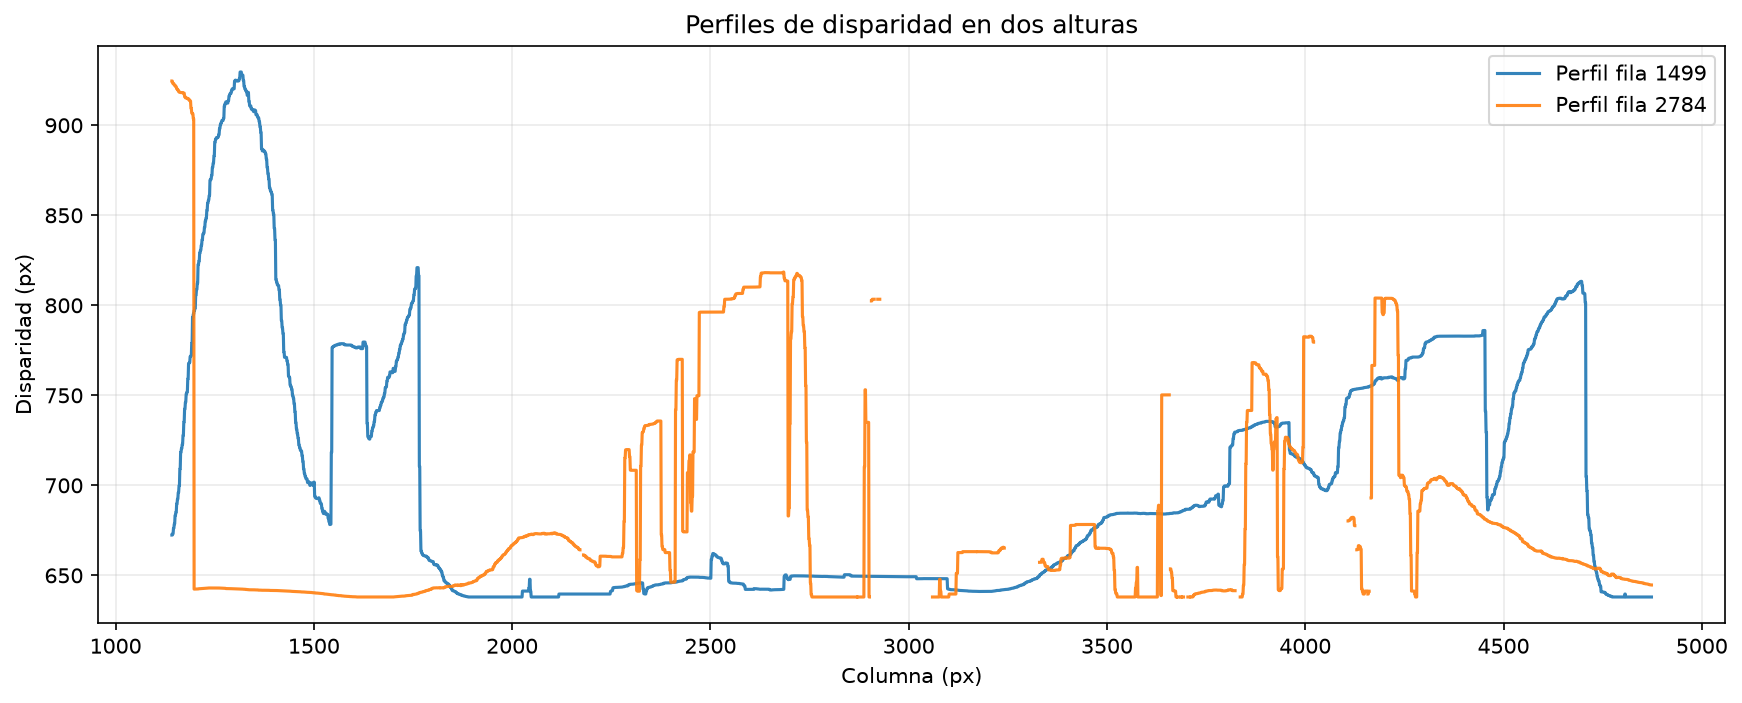
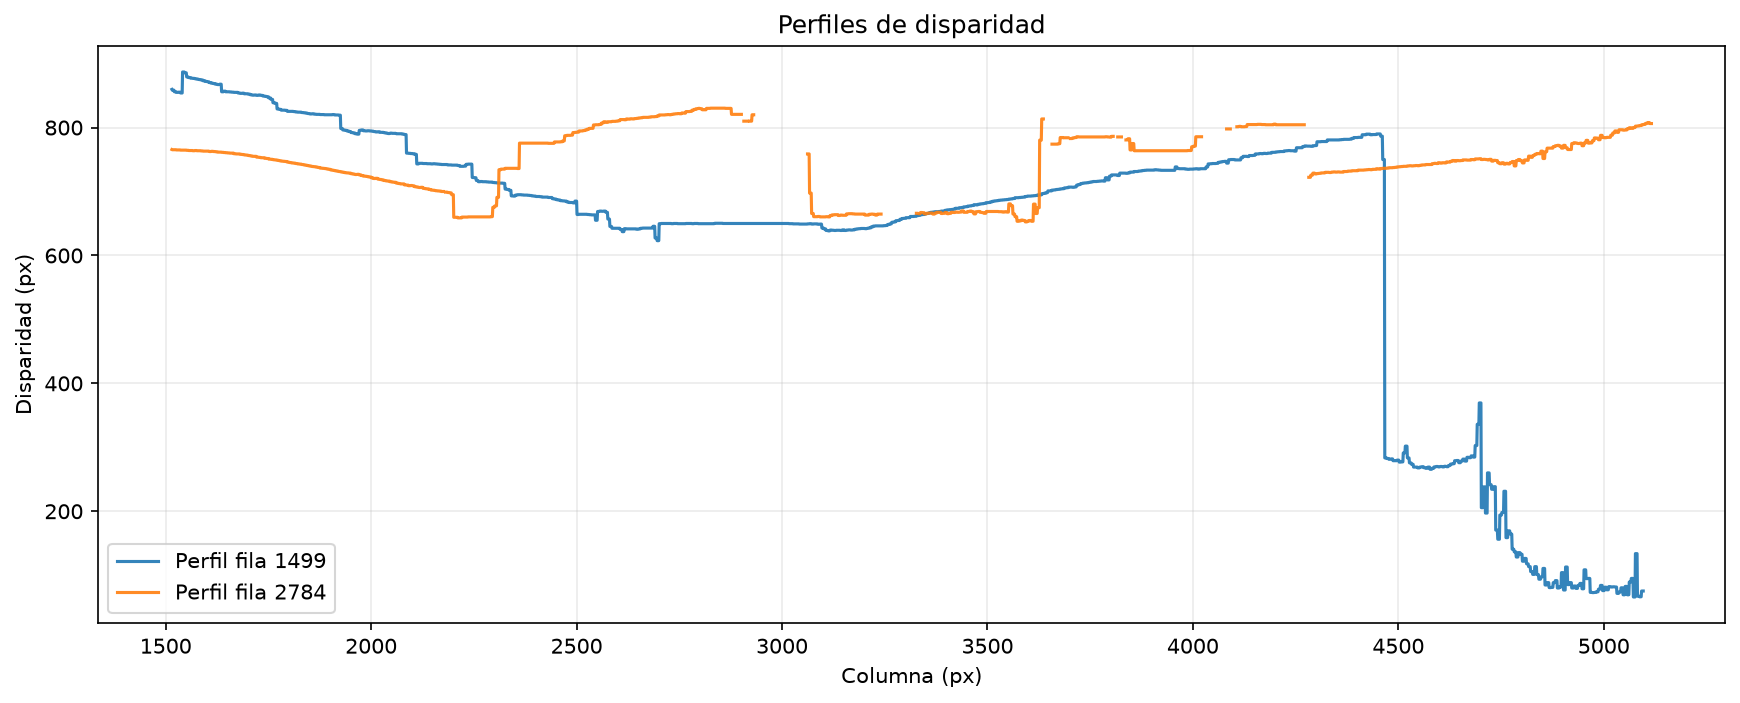
Actualización disparidad

diff --git a/main.py b/main.py
@@ -29,7 +29,7 @@ K = np.array([
 ])
 dist = np.array([0.2821249450, -2.1993670285, 0.0003160934, 0.0022638987, 5.0754442194])
 TAMANO_ARUCO_M = 0.062   # lado del ArUco en metros
-SCALE_FACTOR = 0.5
+SCALE_FACTOR = 0.2       # Forzamos la baja resolución para SGBM
 IMG_L = os.path.join("FotosOriginales", "1.png")
 IMG_R = os.path.join("FotosOriginales", "2.png")
 OUTDIR = "output"
@@ -56,16 +56,6 @@ def cargar_imagenes():
 # ETAPA 9 — Rectificación estéreo (cv2.stereoRectify)
 # ============================================================================
 def rectificar_estereo(img_l, img_r, K, R, t):
-    """
-    Rectificación calibrada usando cv2.stereoRectify.
-    
-    Concepto: stereoRectify calcula rotaciones R1, R2 que alinean ambos planos
-    imagen para que las líneas epipolares sean horizontales. Se derivan de la
-    geometría epipolar (R, t): cada cámara se rota para que el epipolo se
-    envíe al infinito horizontal, haciendo las epipolares paralelas al eje x.
-    
-    dist_coeffs = 0 porque las imágenes ya están corregidas de distorsión.
-    """
     print("\n" + "="*70)
     print("ETAPA 9 — Rectificación estéreo (cv2.stereoRectify)")
     print("="*70)
@@ -88,15 +78,9 @@ def rectificar_estereo(img_l, img_r, K, R, t):
     print(f"  P1r:\n{P1r}")
     print(f"  P2r:\n{P2r}")
     
-    # Explicación conceptual
-    print("\n  NOTA: Las homografías de rectificación se derivan de E (y por tanto de R,t).")
-    print("  stereoRectify rota cada cámara (R1, R2) para que los planos imagen sean")
-    print("  coplanares y las líneas epipolares perfectamente horizontales.")
-    
     return img_rect1, img_rect2, R1, R2, P1r, P2r, Q
 
 def calcular_error_vertical(img_rect2, pts_l, pts_r, K, R1, R2, P1r, P2r):
-    """Calcula error vertical medio y aplica corrección afín en Y para eliminar el residual."""
     dist_rect = np.zeros((1, 5), dtype=float)
     ptsL_rect = cv2.undistortPoints(pts_l.reshape(-1,1,2).astype(np.float64),
                                      K, dist_rect, R=R1, P=P1r).reshape(-1, 2)
@@ -105,12 +89,10 @@ def calcular_error_vertical(img_rect2, pts_l, pts_r, K, R1, R2, P1r, P2r):
     
     dy_before = np.mean(np.abs(ptsL_rect[:,1] - ptsR_rect[:,1]))
     
-    # Corrección Bilineal (solo en Y) para alinear suave y precisamente
-    # Evita la distorsión loca de los extremos que causa RBF
+    # Corrección Bilineal (solo en Y)
     X_r, Y_r = ptsR_rect[:, 0], ptsR_rect[:, 1]
     Y_l = ptsL_rect[:, 1]
     
-    # 1. Ajuste Inverso (Para remap: Destino -> Origen)
     A_inv = np.column_stack([X_r, Y_l, X_r*Y_l, np.ones_like(X_r)])
     p_inv, _, _, _ = np.linalg.lstsq(A_inv, Y_r, rcond=None)
     
@@ -120,7 +102,6 @@ def calcular_error_vertical(img_rect2, pts_l, pts_r, K, R1, R2, P1r, P2r):
     
     img_rect2_opt = cv2.remap(img_rect2, map_x, map2y_opt, cv2.INTER_LINEAR)
     
-    # 2. Ajuste Directo (Para calcular el nuevo Y de los puntos)
     A_fwd = np.column_stack([X_r, Y_r, X_r*Y_r, np.ones_like(X_r)])
     p_fwd, _, _, _ = np.linalg.lstsq(A_fwd, Y_l, rcond=None)
     
@@ -139,11 +120,12 @@ def calcular_error_vertical(img_rect2, pts_l, pts_r, K, R1, R2, P1r, P2r):
 def calcular_disparidad(imgL_rect, imgR_rect, P1r, P2r, ptsL_in, ptsR_in,
                          K, R1, R2, C1, C2, outdir):
     print("\n" + "="*70)
-    print("ETAPA 10 — Mapa de disparidad denso (StereoSGBM)")
+    print("ETAPA 10 — Mapa de disparidad denso (StereoSGBM + WLS limpio)")
     print("="*70)
 
-    SCALE_FACTOR = 0.5
-    assert SCALE_FACTOR in [0.5, 0.25, 0.125], "Usa potencias de 1/2"
+    # 1. Aplicamos el factor de escala
+    SCALE_FACTOR = 0.2
+    assert SCALE_FACTOR in [0.5, 0.25, 0.2, 0.125], "Usa factores lógicos"
 
     h_orig, w_orig = imgL_rect.shape[:2]
     new_w, new_h = int(w_orig * SCALE_FACTOR), int(h_orig * SCALE_FACTOR)
@@ -152,11 +134,8 @@ def calcular_disparidad(imgL_rect, imgR_rect, P1r, P2r, ptsL_in, ptsR_in,
     grayL = cv2.cvtColor(imgL_rect_small, cv2.COLOR_BGR2GRAY)
     grayR = cv2.cvtColor(imgR_rect_small, cv2.COLOR_BGR2GRAY)
     
-    # MÁSCARA ESTRICTA DE ZONA VÁLIDA (para evitar que WLS reviente en los bordes negros de alpha=1)
+    # Máscara para bordes negros de rectificación
     mask_valid = (grayL > 5) & (grayR > 5)
-
-    P1r_scaled = P1r.copy(); P1r_scaled[0, :] *= SCALE_FACTOR; P1r_scaled[1, :] *= SCALE_FACTOR
-    P2r_scaled = P2r.copy(); P2r_scaled[0, :] *= SCALE_FACTOR; P2r_scaled[1, :] *= SCALE_FACTOR
 
     dist_rect = np.zeros((1, 5), dtype=float)
 
@@ -165,178 +144,115 @@ def calcular_disparidad(imgL_rect, imgR_rect, P1r, P2r, ptsL_in, ptsR_in,
     ptsR_rect = cv2.undistortPoints(ptsR_in.reshape(-1, 1, 2).astype(np.float64), K, dist_rect, R=R2, P=P2r)
 
     disp_known = (ptsL_rect[:, 0, 0] - ptsR_rect[:, 0, 0]) * SCALE_FACTOR
-    min_disp = max(0, int(np.floor(np.min(disp_known))) - 5)
-    max_disp = int(np.ceil(np.max(disp_known))) + 10
+    
+    # 2. Rango de disparidad
+    min_disp = 0
+    max_disp = int(np.ceil(np.max(disp_known))) + 64
     num_disp = ((max_disp - min_disp) // 16 + 1) * 16
-    print(f"  Rango disparidad: {min_disp} - {max_disp}, numDisparities={num_disp}")
+    print(f"  Rango disparidad: {min_disp} - {min_disp+num_disp}, numDisparities={num_disp}")
 
-    # --- Parámetros de StereoSGBM de TU código ---
-    block_size = 5
-    canales = 1
+    # 3. Parámetros de StereoSGBM optimizados
+    block_size = 7
 
     matcher = cv2.StereoSGBM_create(
         minDisparity=min_disp,
         numDisparities=num_disp,
         blockSize=block_size,
-        P1=8 * canales * block_size**2,
-        P2=16 * canales * block_size**2,
-        disp12MaxDiff=2,
-        uniquenessRatio=5,
+        P1=8 * 1 * block_size**2,
+        P2=32 * 1 * block_size**2,
+        disp12MaxDiff=10,
+        uniquenessRatio=10,
         speckleWindowSize=100,
         speckleRange=2,
         preFilterCap=63,
         mode=cv2.STEREO_SGBM_MODE_SGBM_3WAY,
     )
 
-    disp_raw = matcher.compute(grayL, grayR).astype(np.float32) / 16.0
-    
-    # Forzar valores no válidos fuera de la imagen ANTES del WLS para evitar artefactos gigantes
-    disp_raw[~mask_valid] = min_disp - 1.0
+    # 4. Computar y pasar por el filtro WLS
+    disp_raw_int16 = matcher.compute(grayL, grayR)
 
     try:
         from cv2 import ximgproc
-        wls = ximgproc.createDisparityWLSFilter(matcher_left=matcher)
         right_matcher = ximgproc.createRightMatcher(matcher)
-        disp_right = right_matcher.compute(grayR, grayL).astype(np.float32) / 16.0
-        disp_filtered = wls.filter(disp_raw, grayL, disparity_map_right=disp_right).astype(np.float32)
-        print("  Filtro WLS aplicado con éxito.")
+        disp_right_int16 = right_matcher.compute(grayR, grayL)
+        
+        wls_filter = ximgproc.createDisparityWLSFilter(matcher_left=matcher)
+        wls_filter.setLambda(8000.0)
+        wls_filter.setSigmaColor(1.5)
+        
+        disp_filtered_int16 = wls_filter.filter(disp_raw_int16, imgL_rect_small, disparity_map_right=disp_right_int16)
+        print("  Filtro estéreo WLS aplicado con éxito.")
+        disp_filtered = disp_filtered_int16.astype(np.float32) / 16.0
     except (ImportError, AttributeError, Exception):
-        disp_filtered = disp_raw.copy()
-        print("  Filtro WLS no disponible en esta instalación de OpenCV. Se usa el mapa base.")
+        disp_filtered = disp_raw_int16.astype(np.float32) / 16.0
+        print("  Filtro WLS no disponible. Usando SGBM crudo.")
 
-    # Filtro de mediana inicial
-    disp_filtered = np.nan_to_num(disp_filtered, nan=0.0).astype(np.float32)
-    disp_median = cv2.medianBlur(disp_filtered, 5)
-    
-    # Clamp agresivo para descartar ruido del WLS en los bordes negros
-    disp_median[disp_median <= min_disp] = np.nan
-    disp_median[disp_median >= min_disp + num_disp + 10] = np.nan
-    disp_median[~mask_valid] = np.nan  # Mantenemos los bordes negros como NaN puros
-    
-    disp_final = disp_median
+    # 5. Limpieza de ruido (SIN Inpainting para evitar falsos positivos)
+    disp_clean = np.nan_to_num(disp_filtered, nan=0.0).astype(np.float32)
+    disp_clean[disp_clean <= min_disp] = np.nan
+    disp_clean[disp_clean >= min_disp + num_disp] = np.nan
+    disp_clean[~mask_valid] = np.nan
 
-    # ==============================================================================
-    # --- DETECCIÓN AUTOMÁTICA ADAPTATIVA DEL ANCHO DE OCLUSIÓN LATERAL ---
-    # ==============================================================================
-    valid_indices = [np.where(~np.isnan(disp_final[r]))[0] for r in range(disp_final.shape[0])]
-    first_valid_cols = [idx[0] for idx in valid_indices if len(idx) > 0]
-    last_valid_cols = [idx[-1] for idx in valid_indices if len(idx) > 0]
-
-    if len(first_valid_cols) > 0:
-        crop_left_small = min(int(np.percentile(first_valid_cols, 90)) + 15, int(new_w * 0.20))
-    else:
-        crop_left_small = int(num_disp + 15)
-
-    if len(last_valid_cols) > 0:
-        crop_right_small = min(disp_final.shape[1] - int(np.percentile(last_valid_cols, 10)) + 15, int(new_w * 0.15))
-    else:
-        crop_right_small = 15
-    # ==============================================================================
-
-    # --- INPAINTING ULTRA-LOCAL CON PRESERVACIÓN DE BORDES (NAVIER-STOKES) ---
-    invalid_mask = np.isnan(disp_final)
-    # IMPORTANTE: Inpaintamos SOLO dentro de la imagen, no los inmensos bordes negros de alpha=1
-    inpaint_target = invalid_mask & mask_valid
-    valid_data_mask = ~invalid_mask & mask_valid
-
-    if np.any(valid_data_mask):
-        d_min = float(np.nanmin(disp_final[valid_data_mask]))
-        d_max = float(np.nanmax(disp_final[valid_data_mask]))
-        d_range = d_max - d_min if (d_max - d_min) > 1e-9 else 1.0
-        
-        # Normalizamos
-        disp_uint8 = np.zeros_like(disp_final, dtype=np.uint8)
-        disp_uint8[valid_data_mask] = np.clip(
-            255.0 * (disp_final[valid_data_mask] - d_min) / d_range, 0, 255
-        ).astype(np.uint8)
-        
-        # Máscara de inpainting (solo agujeros internos)
-        inpaint_mask = (inpaint_target * 255).astype(np.uint8)
-        
-        # Usamos Navier-Stokes (INPAINT_NS) con radio=1 para rellenar sin difuminar bordes
-        disp_uint8_inpainted = cv2.inpaint(disp_uint8, inpaint_mask, inpaintRadius=1, flags=cv2.INPAINT_NS)
-        
-        # Desnormalizamos
-        disp_inpainted_float = d_min + (disp_uint8_inpainted.astype(np.float32) / 255.0) * d_range
-        
-        # Conservamos los píxeles originales calculados por SGBM y solo rellenamos los vacíos internos
-        disp_final_clean = disp_final.copy()
-        disp_final_clean[inpaint_target] = disp_inpainted_float[inpaint_target]
-        disp_final = disp_final_clean
-
-    # Escalado de la disparidad al tamaño original
+    # 6. Escalado de la disparidad al tamaño original
     if SCALE_FACTOR != 1.0:
-        # Poner los NaN a 0 temporalmente para el resize
-        disp_clean_resize = np.nan_to_num(disp_final, nan=0.0).astype(np.float32)
+        disp_clean_resize = np.nan_to_num(disp_clean, nan=0.0).astype(np.float32)
         disp_up = cv2.resize(
             disp_clean_resize,
             (w_orig, h_orig),
             interpolation=cv2.INTER_NEAREST,
-        ) / SCALE_FACTOR
+        ) / SCALE_FACTOR  # Factor inverso aplicado a la profundidad
         
         mask = cv2.resize(
-            np.isfinite(disp_final).astype(np.uint8),
+            np.isfinite(disp_clean).astype(np.uint8),
             (w_orig, h_orig),
             interpolation=cv2.INTER_NEAREST,
         )
         disp_up[mask == 0] = np.nan
         disp = disp_up
     else:
-        disp = disp_final.copy()
+        disp = disp_clean.copy()
 
-    # ==============================================================================
-    # --- ANULACIÓN AUTOMÁTICA ADAPTATIVA EN RESOLUCIÓN COMPLETA ---
-    # ==============================================================================
-    crop_left = int(crop_left_small / SCALE_FACTOR)
-    crop_right = int(crop_right_small / SCALE_FACTOR)
-
+    # Anulación de bordes laterales ciegos
+    crop_left = int((num_disp + 15) / SCALE_FACTOR)
     disp[:, :crop_left] = np.nan
-    disp[:, -crop_right:] = np.nan
-    # ==============================================================================
+    disp[:, -15:] = np.nan
 
     valid = np.isfinite(disp) & (disp > 0)
     print(f"  Disparidad válida: {100.0 * valid.mean():.1f}% de píxeles")
-    if np.any(valid):
-        print(f"  d (px) min/med/max: {np.nanmin(disp[valid]):.2f} / {np.nanmedian(disp[valid]):.2f} / {np.nanmax(disp[valid]):.2f}")
 
     # Profundidad métrica real Z = fB/d
     fx_rect = float(P1r[0, 0])
     B_rect = float(abs(P2r[0, 3] / P2r[0, 0])) if abs(P2r[0, 0]) > 1e-9 else float(np.linalg.norm(C2 - C1))
     depth = np.full_like(disp, np.nan)
     depth[valid] = (fx_rect * B_rect) / disp[valid]
-    print(f"  f (rect) = {fx_rect:.2f} px, B = {B_rect:.4f} m")
-    if np.any(np.isfinite(depth)):
-        print(f"  Z aprox (m) min/med/max: {np.nanmin(depth[valid]):.3f} / {np.nanmedian(depth[valid]):.3f} / {np.nanmax(depth[valid]):.3f}")
 
-    # Visualización del mapa de disparidad crudo (contraste optimizado)
+    # Visualización
     fig1 = plt.figure(figsize=(12, 5))
     valid_disp = disp[valid]
     if len(valid_disp) > 0:
         vmin = float(np.percentile(valid_disp, 5))
         vmax = float(np.percentile(valid_disp, 95))
-        print(f"  Rango visualizado: {vmin:.1f} - {vmax:.1f} px")
     else:
         vmin, vmax = 0.0, 1.0
 
-    # Submuestreo para visualización
     disp_viz_step = max(1, int(np.round(disp.shape[1] / 1600.0)))
     disp_viz = disp[::disp_viz_step, ::disp_viz_step]
 
-    # Mostramos el mapa de disparidad crudo
     import matplotlib.cm as cm
     cmap = cm.plasma
-    cmap.set_bad(color='white') # Fondo blanco para las oclusiones (los NaNs)
+    # Pinta el fondo (pared sin textura) de blanco puro para separarlo del robot
+    cmap.set_bad(color='white') 
     plt.imshow(disp_viz, cmap=cmap, vmin=vmin, vmax=vmax)
 
     plt.colorbar(label='Disparidad (px)')
-    plt.title('Mapa de disparidad (contraste optimizado - bordes definidos)')
+    plt.title('Mapa de disparidad denso')
     plt.axis('off')
 
     fig1.savefig(os.path.join(outdir, 'mapa_disparidad_2D.pdf'), bbox_inches='tight')
     fig1.savefig(os.path.join(outdir, 'mapa_disparidad_2D.png'), dpi=150, bbox_inches='tight')
     plt.close(fig1)
 
-    # Perfiles de disparidad en dos alturas
+    # Perfiles
     h_rect, w_rect = disp.shape
     row_a = int(0.35 * h_rect)
     row_b = int(0.65 * h_rect)
@@ -347,23 +263,15 @@ def calcular_disparidad(imgL_rect, imgR_rect, P1r, P2r, ptsL_in, ptsR_in,
     plt.plot(x, disp[row_b, :], label=f'Perfil fila {row_b}', alpha=0.9)
     plt.xlabel('Columna (px)')
     plt.ylabel('Disparidad (px)')
-    plt.title('Perfiles de disparidad en dos alturas')
+    plt.title('Perfiles de disparidad')
     plt.legend()
     plt.grid(True, alpha=0.25)
 
-    fig2.savefig(os.path.join(outdir, 'perfiles_disparidad.pdf'), bbox_inches='tight')
     fig2.savefig(os.path.join(outdir, 'perfiles_disparidad.png'), dpi=150, bbox_inches='tight')
     plt.close(fig2)
 
-    # Comentario automático de calidad
-    frac_invalid = 1.0 - valid.mean()
-    print()
-    print('  Diagnóstico rápido del mapa de disparidad:')
-    print(f"  - Píxeles inválidos: {100.0 * frac_invalid:.1f}%")
-    print('  - Fallos típicos esperables: oclusiones, reflejos, zonas sin textura y bordes finos.')
-    print('  - Mejoras aplicadas: SGBM de bordes duros, inpainting local adaptativo, mediana y percentiles.')
-
     return disp, depth
+
 # ============================================================================
 # RESUMEN FINAL — 12 preguntas del informe
 # ============================================================================
@@ -458,9 +366,7 @@ def main():
     # --- Etapa 5: Matriz Esencial ---
     E = calcular_esencial(F, K)
     
-    # Visualizar líneas epipolares desde E (transformando a F equivalente para comparar)
-    # E induce líneas en coordenadas normalizadas; las convertimos a píxel:
-    # F_from_E = K^-T · E · K^-1
+    # Visualizar líneas epipolares desde E 
     K_inv = np.linalg.inv(K)
     F_from_E = K_inv.T @ E @ K_inv
     F_from_E = F_from_E / np.linalg.norm(F_from_E)
@@ -479,30 +385,23 @@ def main():
     print(f"  Factor de escala: {factor:.6f}")
     print(f"  t escalado: {t_esc.ravel()}")
     
-    # Verificación de escala: distancia entre esquinas 0 y 1 del primer marcador
     if len(X) >= 2:
         d01 = np.linalg.norm(X[0] - X[1])
         print(f"  Distancia 3D esquina 0→1 (primer ArUco): {d01:.4f} m (real: {TAMANO_ARUCO_M:.4f} m)")
     
-    # Error de reproyección
     err1, err2 = error_reproyeccion(K, R, t_esc, X, p1_in, p2_in)
     print(f"  Error reproyección: cam1={err1:.4f} px, cam2={err2:.4f} px")
     
-    # Visualización 3D
     visualizar_3d(X, mids_in, R, t_esc, OUTDIR)
     
     # --- Etapa 9: Rectificación ---
     img_rect1, img_rect2, R1, R2, P1r, P2r, Q = rectificar_estereo(
         img_l, img_r, K, R, t_esc)
     
-    # Error vertical y ajuste afín
     ptsL_rect, ptsR_rect, img_rect2_opt, dy_before, dy_after = calcular_error_vertical(
         img_rect2, p1_in, p2_in, K, R1, R2, P1r, P2r)
     
-    # Reemplazar la imagen derecha con la versión alineada perfectamente
     img_rect2 = img_rect2_opt
-    
-    # Visualización rectificación (dibujando líneas por las correspondencias)
     visualizar_rectificacion(img_rect1, img_rect2, OUTDIR, pts_rect=ptsL_rect)
     
     # --- Etapa 10: Disparidad densa ---
@@ -521,7 +420,6 @@ def main():
     print("PIPELINE COMPLETADO")
     print(f"Figuras guardadas en: {OUTDIR}/")
     print("="*70)
-
 
 if __name__ == "__main__":
     main()